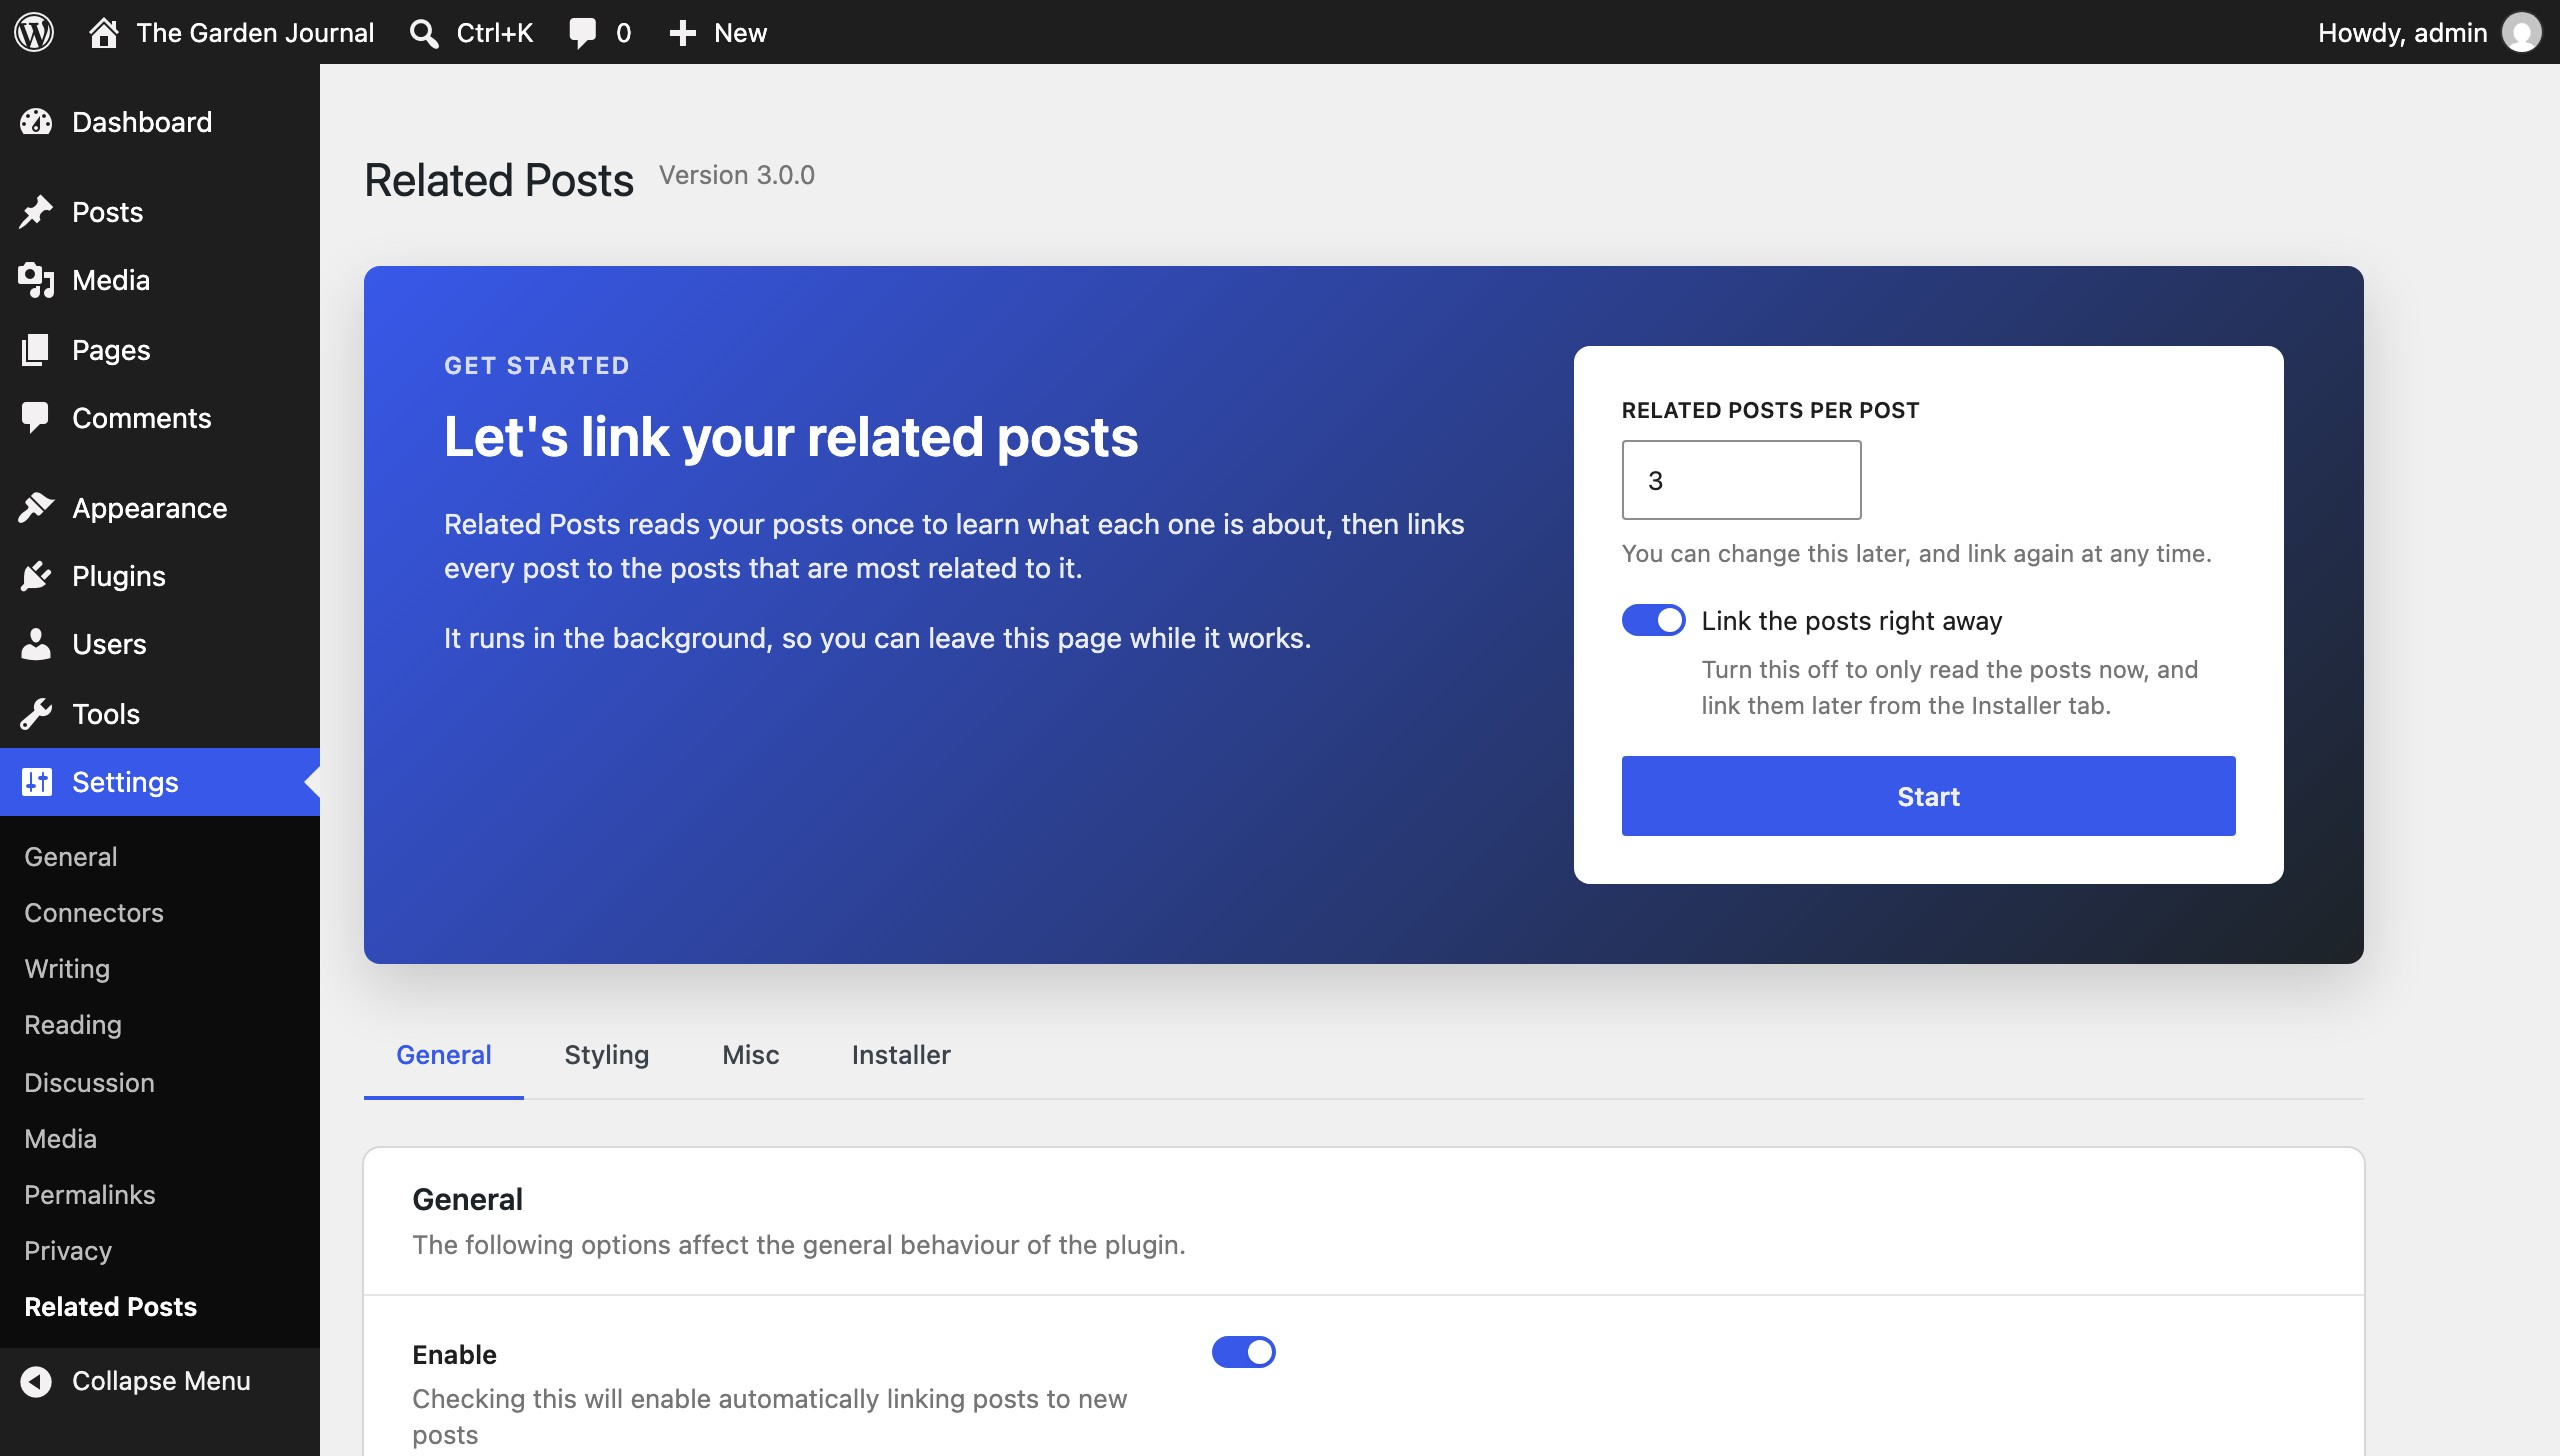
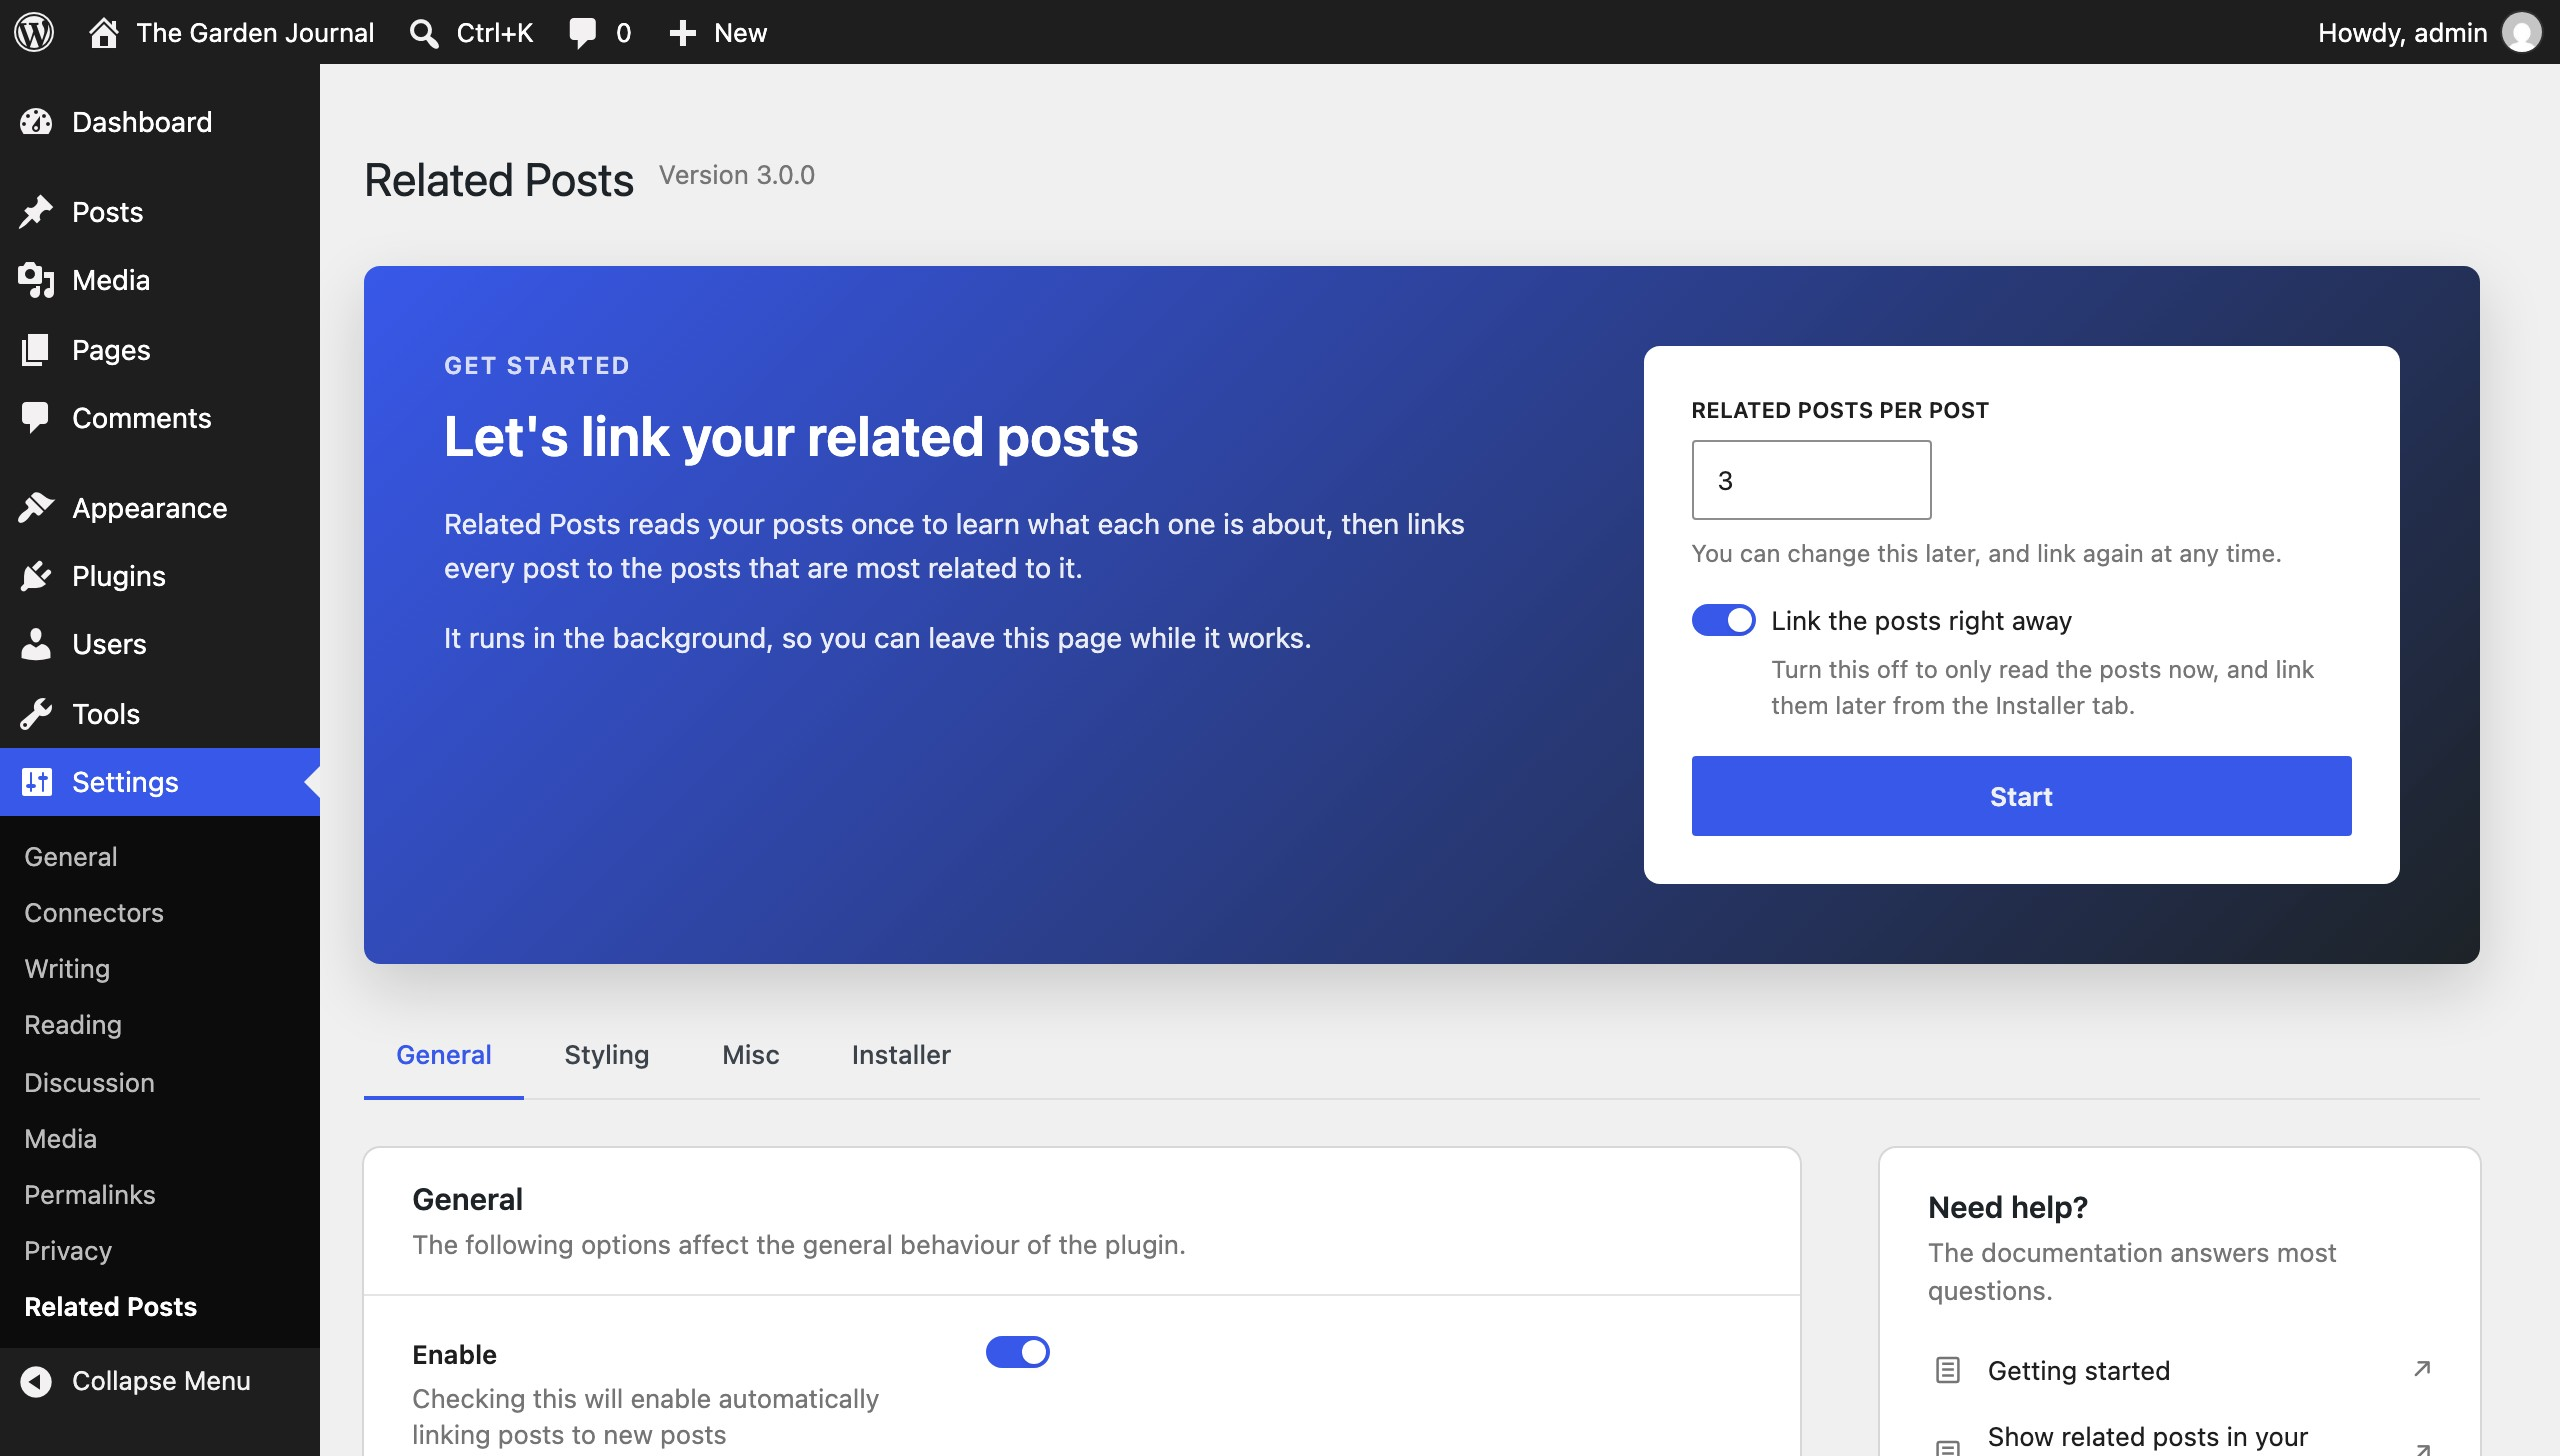
Changed: the WordPress.org screenshots of the settings screen show its sidebar, and the screenshots never show the offer of Premium

diff --git a/tests/e2e/screenshots/wordpress-org.spec.ts b/tests/e2e/screenshots/wordpress-org.spec.ts
@@ -194,10 +194,22 @@ test( 'WordPress.org screenshots', async ( {
 		} );
 	} );
 
+	// The screenshots never show the offer of Premium in the sidebar, on any page.
+	await page.addInitScript( () => {
+		document.addEventListener( 'DOMContentLoaded', () => {
+			const style = document.createElement( 'style' );
+			style.textContent = '.rp4wp-promo { display: none !important; }';
+			document.head.append( style );
+		} );
+	} );
+
 	// 1. The first-run card.
 	await page.goto( '/wp-admin/options-general.php?page=rp4wp' );
 	const start = page.getByRole( 'button', { name: 'Start' } );
 	await expect( start ).toBeVisible();
+	await expect(
+		page.getByRole( 'link', { name: /Upgrade to Premium/ } )
+	).toBeHidden();
 	await shoot( page, 1 );
 
 	// 2. The installer at work. Once it is half way through linking, hold the status requests so the card stands still.
